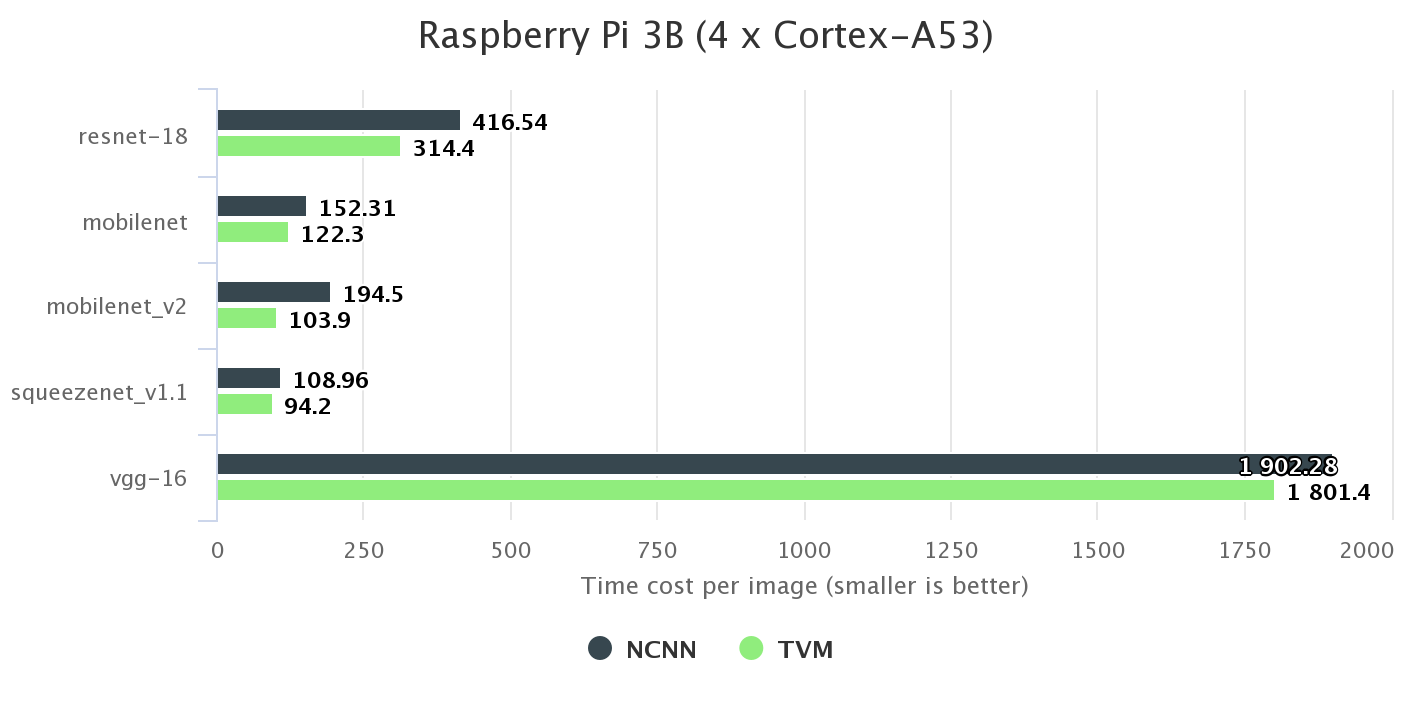
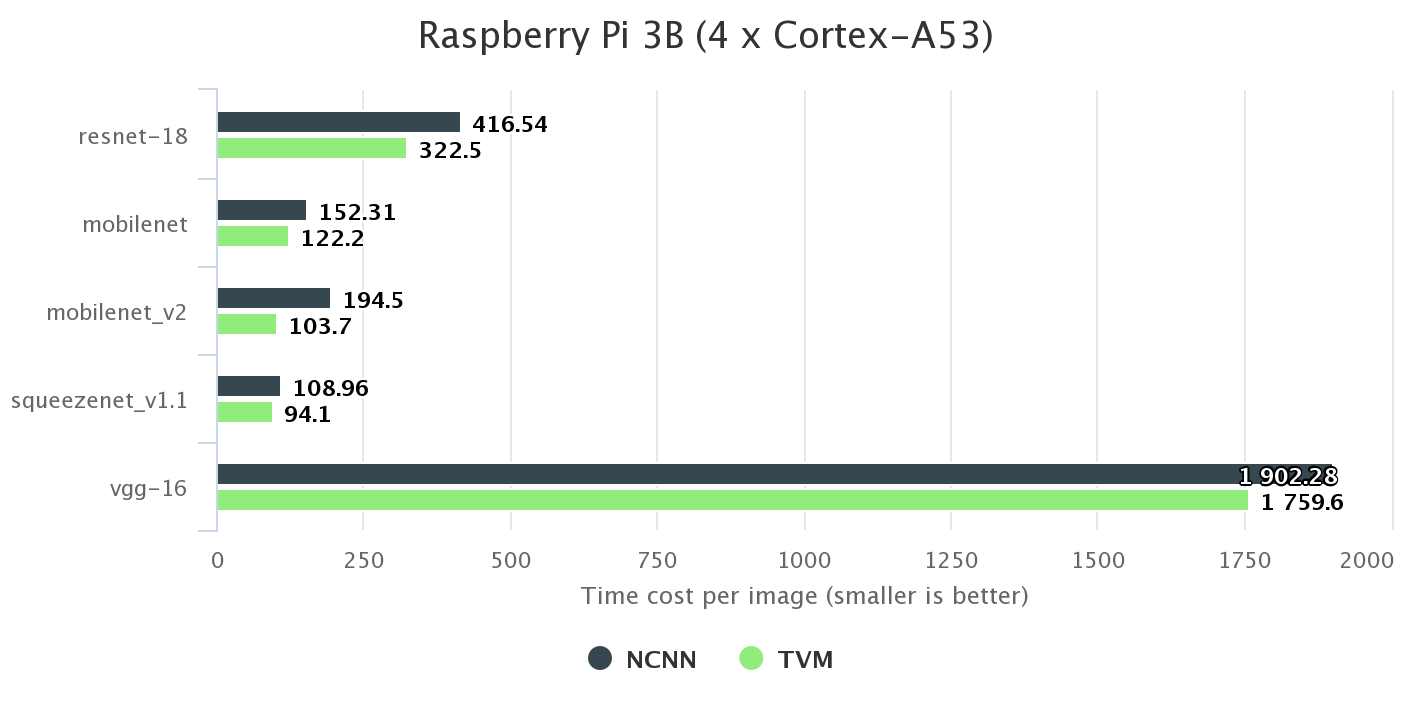
update benchmark numbers

diff --git a/_posts/2018-10-02-auto-tune-all.md b/_posts/2018-10-02-auto-tune-all.md
@@ -159,18 +159,18 @@ The reported numbers are time costs per image in millisecond.
 | --- | --- | --- | --- | --- | --- | --- | --- | --- | --- | --- |
 | | **densenet121** | **inception v3** | **mobilenet** | **mobilenet v2** | **resnet18** | **resnet50** | **squeezenet v1.0** | **squeezenet v1.1** | **vgg16** | **vgg19** |
 | **ARM CPU** |
-| Huawei P20 Pro | 181.4 | 439.9 | 56.1 | 34.5 | 76.5 | 208.2 | 51.8 | 25.7 | 480.6 | 627.0 |
+| Huawei P20 Pro | 181.4 | 439.9 | 41.1 | 34.5 | 76.5 | 208.2 | 51.8 | 25.7 | 480.6 | 627.0 |
 | Google Pixel2 | 162.2 | 433.5 | 39.5 | 30.1 | 61.1 | 181.3 | 47.3 | 23.2 | 391.1 | 487.7 |
 | Xilinx PYNQ | 2888.3 | 9709.1 | 723.5 | 514.3 | 1234.6 | 3580.5 | 909.9 | 477.3 | <sup>-(Note 1)</sup>  | - |
 | Firefly RK3399 | 335.9 | 1285.9 | 78.6 | 66.7 | 161.2 | 403.8 | 94.6 | 48.5 | 902.9 | 1090.1 |
-| Raspberry Pi 3B | 608.4 | 2065.7 | 122.3 | 103.9 | 314.4 | 722.8 | 185.2 | 94.2 | 1801.4 | 2124.2 |
+| Raspberry Pi 3B | 609.5 | 2070.4 | 122.2 | 103.7 | 322.5 | 725.8 | 185.1 | 94.1 | 1759.6 | 2118.6 |
 | **Mali GPU** |
-| Mali-T860 | 461.5 | 1055.6 | 75.1 | 85.4 | 127.8 | 412.5 | 108.7 | 57.6 | 678.1 | 799.1 |
+| Mali-T860 | 410.9 | 783.1 | 75.4 | 70.8 | 128.6 | 352.9 | 106.2 | 58.0 | 679.5 | 805.3 |
 | **NVIDIA GPU** |
-| GTX 1080 Ti | 3.5 | 5.8 | 0.6 | - <sup>(Note 2) </sup> | - | 2.7 | - | - | 4.0 | 4.6 |
+| GTX 1080 Ti | 3.6 | 5.8 | 0.6 | - <sup>(Note 2) </sup> | - | 2.7 | - | - | 4.0 | 4.6 |
 | GTX TITAN X | 5.8 | 9.7 | 1.0 | - | - | 4.3 | - | - | 6.4 | 7.5 |
 | **AMD GPU** |
-| AMD Vega FE | 5.7 | 8.8 | 1.0 | - | - | 4.4 | - | - | 6.1 | 7.0 |
+| AMD Vega FE | 5.7 | 8.8 | 1.0 | - | - | 4.5 | - | - | 5.9 | 7.0 |
 | |
 
 * Note 1: Out of memory on this board.
